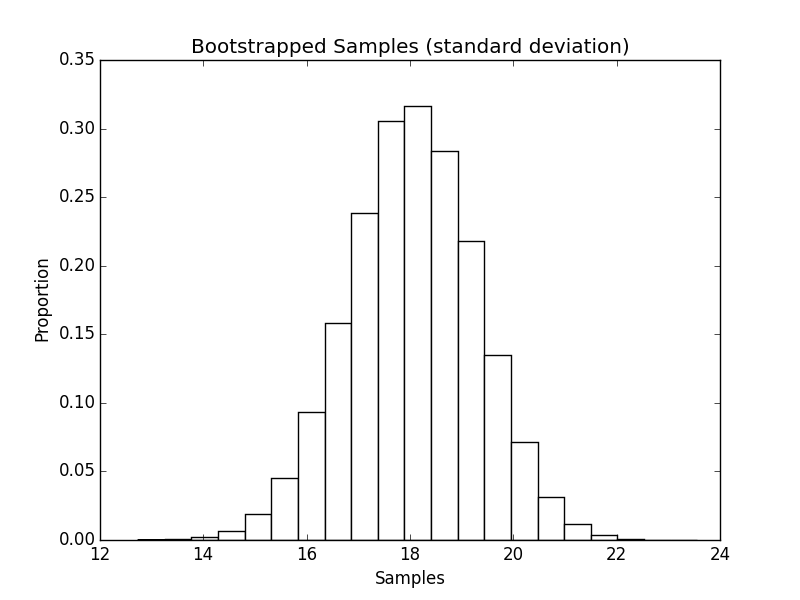
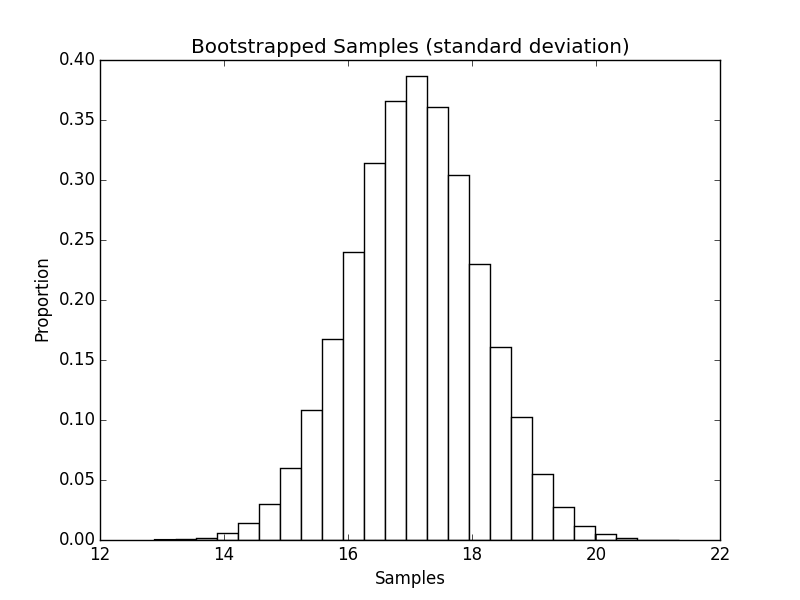
added another bootstrap - for median investigation

diff --git a/src/sim7/bootstrap_01.py b/src/sim7/bootstrap_01.py
@@ -10,7 +10,7 @@ def bootstrap(population, size, iterations):
     samples    = np.empty((iterations, 4))
 
     for i in range(iterations):
-        sample = np.random.choice(population, size)
+        sample        = np.random.choice(population, size)
         samples[i, 0] = np.mean(sample)
         samples[i, 1] = np.median(sample)
         samples[i, 2] = np.std(sample)
@@ -22,41 +22,29 @@ def bootstrap(population, size, iterations):
 
 def print_results(data, results):
     print()
-    print(' Mean:')
-    print(' %0.5f \u00B1 %0.5f (%0.5f, %0.5f)' % (
-            np.mean(data), 
-            np.std(results[:, 0]), 
-            np.percentile(results[:, 0], 2.5), 
-            np.percentile(results[:, 0], 97.5)
-        )
-    )
+    print('               Mean:')
+    print('              Value: %0.5f' % (np.mean(data)))
+    print('               S.E.: \u00B1 %0.5f' % (np.std(results[:, 0])))
+    print('               Bias: %0.5f' % (np.mean(results[:, 0]) - np.mean(data)))
+    print('               C.I.: (%0.5f, %0.5f)' % (np.percentile(results[:, 0], 2.5), np.percentile(results[:, 0], 97.5)))
     print()
-    print(' Median:')
-    print(' %0.5f \u00B1 %0.5f (%0.5f, %0.5f)' % (
-            np.median(data), 
-            np.std(results[:, 1]), 
-            np.percentile(results[:, 1], 2.5), 
-            np.percentile(results[:, 1], 97.5)
-        )
-    )
+    print('             Median:')
+    print('              Value: %0.5f' % (np.median(data)))
+    print('               S.E.: \u00B1 %0.5f' % (np.std(results[:, 1])))
+    print('               Bias: %0.5f' % (np.mean(results[:, 1]) - np.median(data)))
+    print('               C.I.: (%0.5f, %0.5f)' % (np.percentile(results[:, 1], 2.5), np.percentile(results[:, 1], 97.5)))
     print()
     print(' Standard Deviation:')
-    print(' %0.5f \u00B1 %0.5f (%0.5f, %0.5f)' % (
-            np.std(data), 
-            np.std(results[:, 2]), 
-            np.percentile(results[:, 2], 2.5), 
-            np.percentile(results[:, 2], 97.5)
-        )
-    )
+    print('              Value: %0.5f' % (np.std(data)))
+    print('               S.E.: \u00B1 %0.5f' % (np.std(results[:, 2])))
+    print('               Bias: %0.5f' % (np.mean(results[:, 2]) - np.std(data)))
+    print('               C.I.: (%0.5f, %0.5f)' % (np.percentile(results[:, 2], 2.5), np.percentile(results[:, 2], 97.5)))
     print()
-    print(' Variance:')
-    print(' %0.5f \u00B1 %0.5f (%0.5f, %0.5f)' % (
-            np.var(data), 
-            np.std(results[:, 3]), 
-            np.percentile(results[:, 3], 2.5), 
-            np.percentile(results[:, 3], 97.5)
-        )
-    )
+    print('           Variance:')
+    print('              Value: %0.5f' % (np.var(data)))
+    print('               S.E.: \u00B1 %0.5f' % (np.std(results[:, 3])))
+    print('               Bias: %0.5f' % (np.mean(results[:, 3]) - np.var(data)))
+    print('               C.I.: (%0.5f, %0.5f)' % (np.percentile(results[:, 3], 2.5), np.percentile(results[:, 3], 97.5)))
     print()
 
 
@@ -64,7 +52,7 @@ def print_results(data, results):
 def plot_results(samples, size, iterations, statistic):
     plt.clf()
     plt.figure(1, facecolor = 'w')
-    plt.hist(samples, color = 'white', bins = (np.max(samples) - np.min(samples)) * 2, normed = True)
+    plt.hist(samples, color = 'white', bins = 25, normed = True)
     plt.title('Bootstrapped Samples (%s)' % (statistic))
     plt.xlabel('Samples')
     plt.ylabel('Proportion')

diff --git a/src/sim7/bootstrap_02.py b/src/sim7/bootstrap_02.py
@@ -1,0 +1,47 @@
+import sys
+import random
+
+import numpy             as np
+import matplotlib.pyplot as plt
+
+
+
+def bootstrap(population, size, iterations):
+    samples    = np.empty((iterations, 1))
+
+    for i in range(iterations):
+        sample        = np.random.choice(population, size)
+        samples[i, 0] = np.median(sample)
+
+    return samples
+
+
+
+def print_results(data, results):
+    print()
+    print(' Median:')
+    print('  Value: %0.5f' % (np.median(data)))
+    print('   S.E.: \u00B1 %0.5f' % (np.std(results[:, 0])))
+    print('   Bias: %0.5f' % (np.mean(results[:, 0]) - np.median(data)))
+    print('   C.I.: (%0.5f, %0.5f)' % (np.percentile(results[:, 0], 2.5), np.percentile(results[:, 0], 97.5)))
+    print()
+
+
+
+def main(argv):
+    mean       = int(argv[0])
+    std        = int(argv[1])
+    size       = int(argv[2])
+    iterations = int(argv[3])
+
+    # np.random.seed(1337)
+
+    data    = np.random.normal(mean, std, size)
+    samples = bootstrap(data, size, iterations)
+
+    print_results(data, samples)
+
+
+
+if __name__ == "__main__":
+    main(sys.argv[1:])
